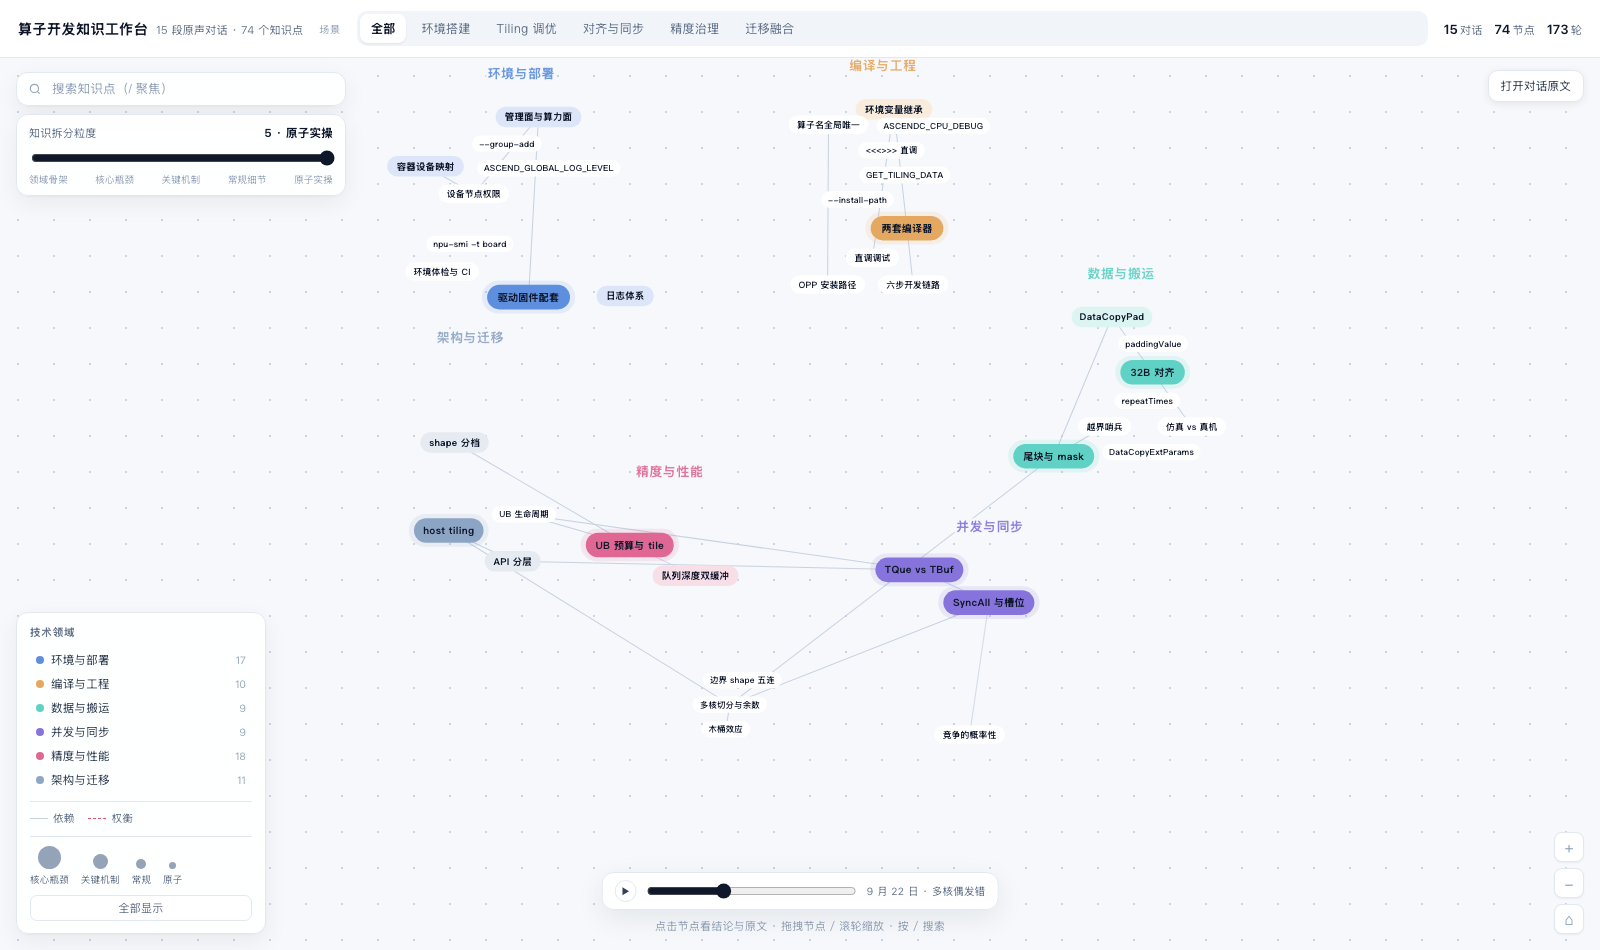
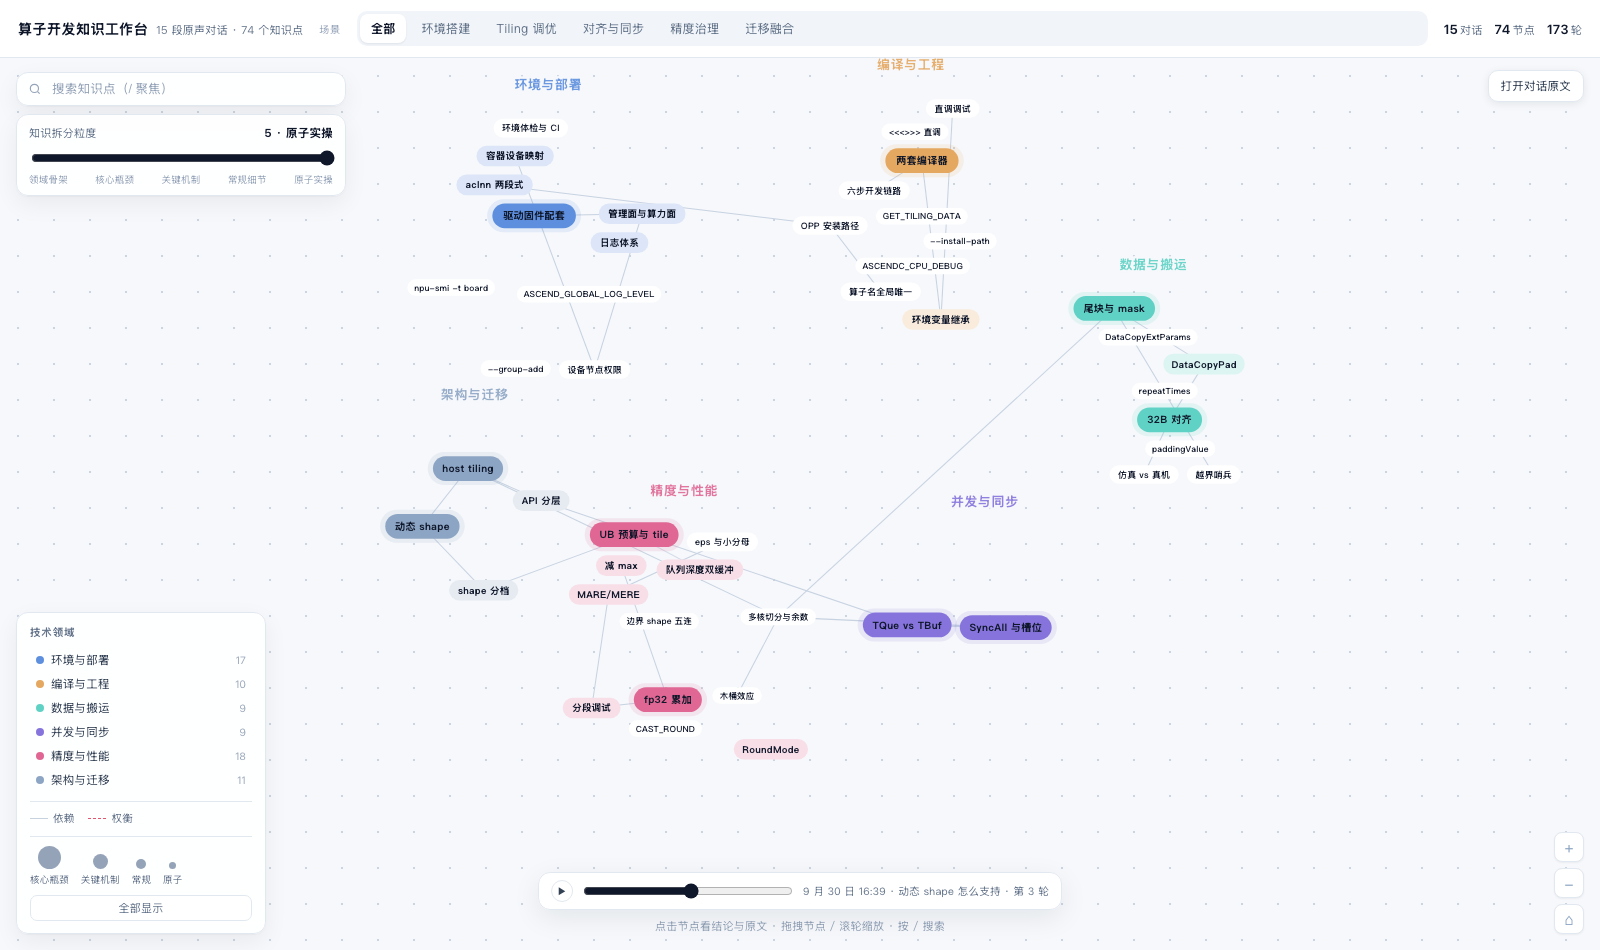
feat(timeline): 时间轴细化到每轮（173 步），标签精确到分钟

diff --git a/cann-dashboard/算子知识工作台.html b/cann-dashboard/算子知识工作台.html
@@ -342,7 +342,7 @@
 
 <div class="dock">
   <div id="pathbar" class="pathbar" hidden></div>
-  <div class="tl" id="tl">
+  <div class="tl" id="tl" title="时间线为示意：原文未记录日期，按对话顺序每 2 分钟一轮排布">
     <button id="tlPlay" title="播放">▶</button>
     <input id="tlRange" type="range" min="1" max="15" value="15" step="1">
     <span id="tlLab">全部 15 段</span>
@@ -1288,36 +1288,52 @@ $('#pbCopy').onclick=async()=>{
 /* 时间轴 */
 const TL_START=new Date(2026,8,1);
 const TL_OFFSET=[0,3,8,12,15,21,25,29,34,38,43,47,52,56,61];
-function tlDate(c){ const d=new Date(TL_START); d.setDate(d.getDate()+TL_OFFSET[c-1]); return d; }
+const TL_CLOCK=[[9,12],[10,5],[14,40],[11,23],[15,2],[9,48],[13,10],[16,35],[10,20],[14,5],[19,40],[11,15],[15,28],[9,55],[13,45]];
+const TL_SEQ=[...ROUNDS].sort((a,b)=>a.c-b.c||a.r-b.r).map((r,i)=>{
+  const d=new Date(TL_START); d.setDate(d.getDate()+TL_OFFSET[r.c-1]);
+  const [h,m]=TL_CLOCK[r.c-1]; d.setHours(h,m,0,0); d.setMinutes(d.getMinutes()+(r.r-1)*2);
+  return {r,d,idx:i};
+});
+const TL_TOTAL=TL_SEQ.length;
+const TL_IDX=new Map(TL_SEQ.map(x=>[`${x.r.c}-${x.r.r}`,x.idx]));
+NODES.forEach(n=>{
+  n.__first=Math.min(...n.turns.map(t=>TL_IDX.has(`${t.c}-${t.t}`)?TL_IDX.get(`${t.c}-${t.t}`):0));
+});
+state.tl=TL_TOTAL;
 function applyTl(){
+  const all = state.tl>=TL_TOTAL;
   const list=visibleNodes(), vis=new Set(list.map(n=>n.id));
-  const shown = state.tl<15 ? new Set(list.filter(n=>n.firstSeen<=state.tl).map(n=>n.id)) : vis;
+  const shown = new Set(list.filter(n=>all||n.__first<=state.tl).map(n=>n.id));
   NODES.forEach(n=>{ n.__el.style.display=(vis.has(n.id)&&shown.has(n.id))?'':'none'; });
   AGG.forEach(e=>{ e.__el.style.display=(shown.has(e.a)&&shown.has(e.b))?'':'none'; });
   renderBadges();
 }
 function tlLabel(){
   const el=$('#tlLab');
-  if(state.tl>=15){ el.textContent='全部 15 段'; return; }
-  const d=tlDate(state.tl);
-  el.textContent=`${d.getMonth()+1} 月 ${d.getDate()} 日 · ${dlgByN[state.tl].t}`;
+  if(state.tl>=TL_TOTAL){ el.textContent=`全部 ${TL_TOTAL} 轮`; return; }
+  const x=TL_SEQ[Math.max(0,state.tl-1)];
+  const d=x.d;
+  const hh=String(d.getHours()).padStart(2,'0'), mm=String(d.getMinutes()).padStart(2,'0');
+  el.textContent=`${d.getMonth()+1} 月 ${d.getDate()} 日 ${hh}:${mm} · ${dlgByN[x.r.c].t} · 第 ${x.r.r} 轮`;
 }
 function setTl(v){
-  state.tl=Math.max(1,Math.min(15,v));
+  state.tl=Math.max(1,Math.min(TL_TOTAL,v));
   $('#tlRange').value=state.tl;
   tlLabel();
   applyTl();
 }
 let tlTimer=null;
+$('#tlRange').max=TL_TOTAL; $('#tlRange').value=TL_TOTAL;
 $('#tlRange').oninput=e=>{ if(tlTimer){clearInterval(tlTimer);tlTimer=null;$('#tlPlay').textContent='▶';} setTl(+e.target.value); };
 $('#tlPlay').onclick=()=>{
   if(tlTimer){ clearInterval(tlTimer); tlTimer=null; $('#tlPlay').textContent='▶'; return; }
   setTl(1); $('#tlPlay').textContent='❚❚';
   tlTimer=setInterval(()=>{
-    if(state.tl>=15){ clearInterval(tlTimer); tlTimer=null; $('#tlPlay').textContent='▶'; return; }
+    if(state.tl>=TL_TOTAL){ clearInterval(tlTimer); tlTimer=null; $('#tlPlay').textContent='▶'; return; }
     setTl(state.tl+1);
-  },750);
+  },90);
 };
+
 
 NODES.forEach(n=>{ n.firstSeen=firstSeen(n); });
 buildDefs(); buildNodes(); buildLegend(); renderStream(); renderInsight();
